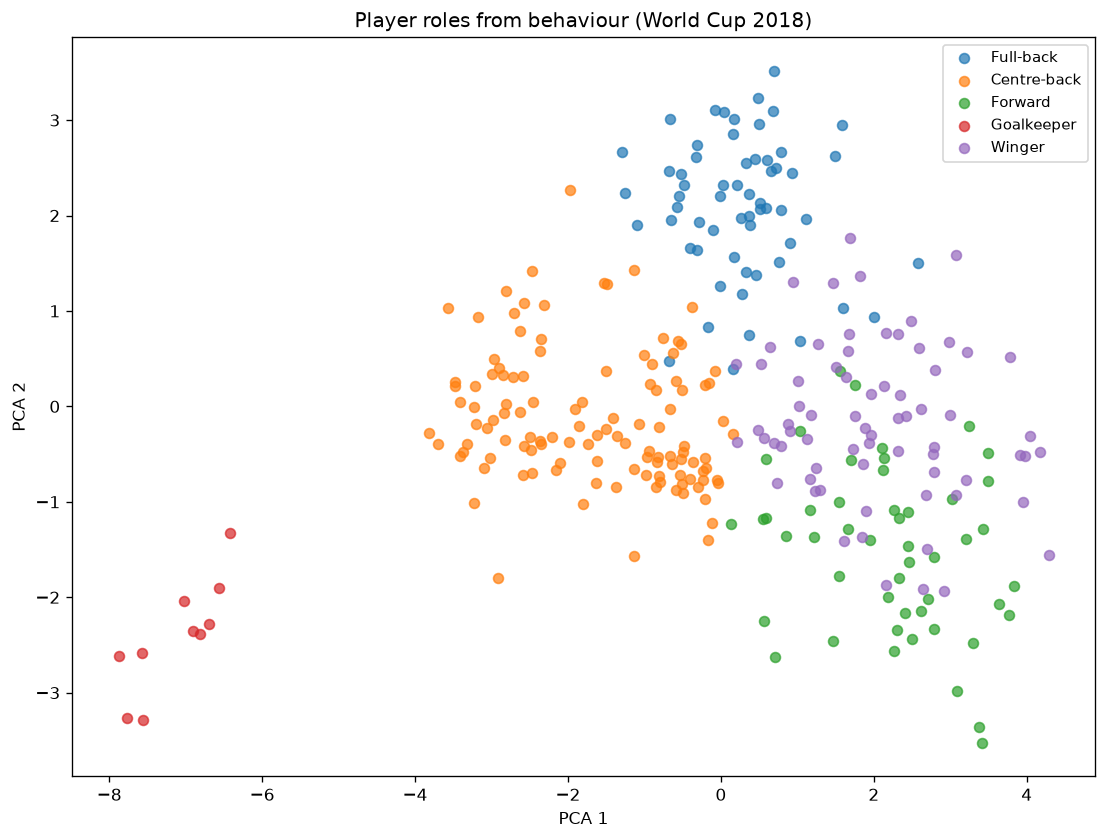
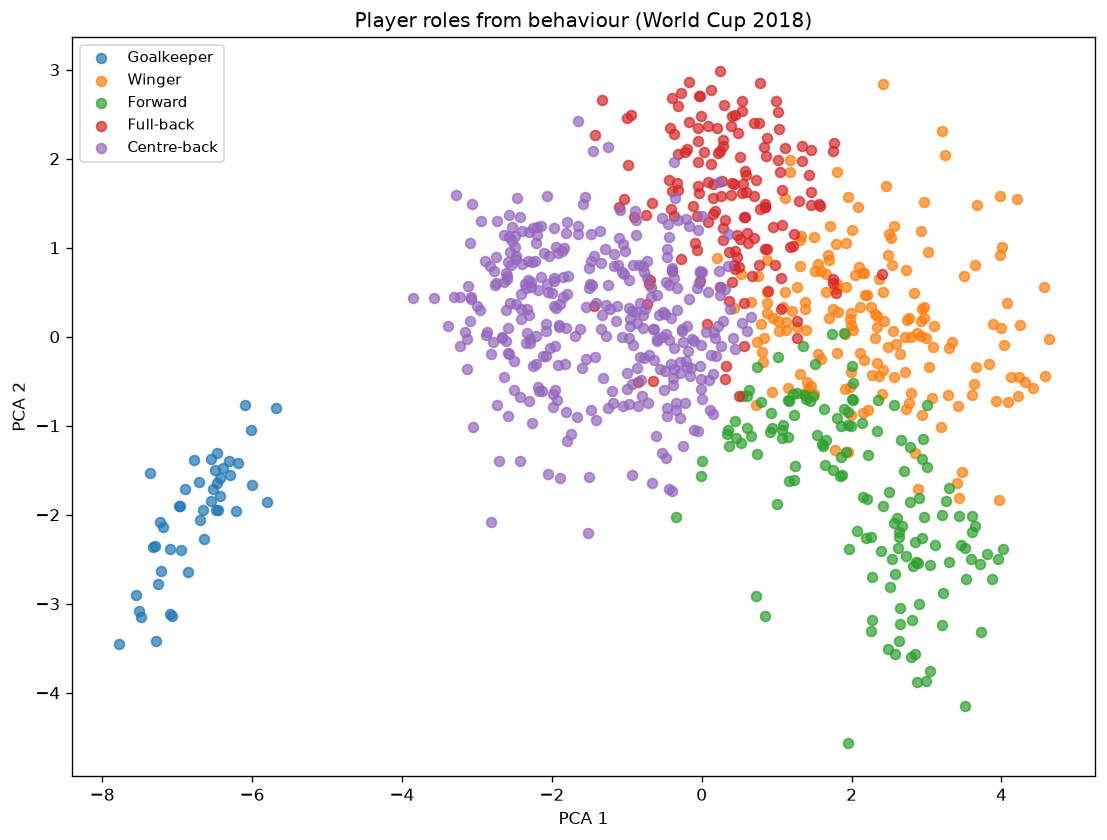
feat: expand training to four international tournaments
Train on World Cup 2018 and 2022 and Euro 2020 and 2024 (230 matches)
rather than World Cup 2018 alone. The competition set is configured once
in data.py and shared by all three models via all_match_ids; the caches
are renamed to be competition-agnostic. Because every model reads the
same raw events, build_data.py fetches each match once and writes the
shot, possession, and player caches together instead of downloading the
matches three times.

The larger sample is the payoff for xG: XGBoost, which overfit and
trailed at 0.708 AUC on World Cup 2018 alone, climbs to 0.767 and now
edges the linear model on ranking, though logistic regression still wins
log loss by a hair and stays the served model. Tactical patterns (29,675
possessions) and player roles (859 players) keep the same structure at
several times the scale, which is reassuring. README metrics, the example
figure, and the role map are regenerated accordingly.

diff --git a/src/pitchsense/build_data.py b/src/pitchsense/build_data.py
@@ -1,0 +1,65 @@
+"""Build every on-disk cache in a single pass over the match events.
+
+Each of the three models draws on the same raw StatsBomb events. Fetching those
+events once per model would download every match three times, so this module
+walks the configured competitions once, and from each match's events assembles
+the shot table, the possession table, and the player aggregates together. Run it
+before training to populate the caches; the individual loaders then find their
+cache and skip the network entirely.
+
+    python -m pitchsense.build_data
+"""
+
+import pandas as pd
+
+from pitchsense.data import (
+    DATA_DIR,
+    SHOTS_CACHE,
+    all_match_ids,
+    shots_from_events,
+)
+from pitchsense.players import (
+    combine_aggregates,
+    finalize_features,
+    player_raw_aggregates,
+)
+from pitchsense.possessions import build_possession_frame
+from pitchsense.roles import PLAYERS_CACHE
+from pitchsense.tactics import POSSESSIONS_CACHE
+
+
+def build_all_caches() -> dict:
+    """Fetch every match once and write the shots, possessions, and player caches."""
+    from statsbombpy import sb  # lazy import so the module stays importable offline
+
+    match_ids = all_match_ids()
+    shot_frames, possession_frames, player_frames = [], [], []
+
+    for i, match_id in enumerate(match_ids, start=1):
+        events = sb.events(match_id=match_id)
+        events["match_id"] = match_id
+        shot_frames.append(shots_from_events(events, match_id))
+        possession_frames.append(build_possession_frame(events))
+        player_frames.append(player_raw_aggregates(events))
+        print(f"  [{i:>3}/{len(match_ids)}] match {match_id} processed", flush=True)
+
+    shots = pd.concat(shot_frames, ignore_index=True)
+    possessions = pd.concat(possession_frames, ignore_index=True)
+    players = finalize_features(combine_aggregates(pd.concat(player_frames, ignore_index=True)))
+
+    DATA_DIR.mkdir(parents=True, exist_ok=True)
+    shots.to_parquet(SHOTS_CACHE, index=False)
+    possessions.to_parquet(POSSESSIONS_CACHE, index=False)
+    players.to_parquet(PLAYERS_CACHE, index=False)
+
+    return {"matches": len(match_ids), "shots": len(shots),
+            "possessions": len(possessions), "players": len(players)}
+
+
+if __name__ == "__main__":
+    counts = build_all_caches()
+    print(
+        f"\nBuilt caches from {counts['matches']} matches: "
+        f"{counts['shots']} shots, {counts['possessions']} possessions, "
+        f"{counts['players']} players."
+    )

diff --git a/src/pitchsense/data.py b/src/pitchsense/data.py
@@ -2,6 +2,13 @@
 
 The raw event API is slow and rate-limited, so the assembled shot frame is
 cached on disk as a parquet file. Delete the cache to force a refresh.
+
+Training spans several major men's international tournaments (see
+``COMPETITIONS``) rather than a single one: a larger, more varied shot sample
+gives a better-calibrated xG model and enough data for the gradient-boosted model
+to compete with the linear baseline. They are all national-team knockout
+tournaments with full event data and shot freeze-frames, so they are stylistically
+comparable and share the same feature coverage.
 """
 
 from pathlib import Path
@@ -9,12 +16,20 @@ from pathlib import Path
 import pandas as pd
 from statsbombpy import sb
 
-# FIFA World Cup 2018
-COMPETITION_ID = 43
-SEASON_ID = 3
+# (competition_id, season_id) for each tournament in the training set.
+COMPETITIONS = [
+    (43, 3),     # FIFA World Cup 2018
+    (43, 106),   # FIFA World Cup 2022
+    (55, 43),    # UEFA Euro 2020
+    (55, 282),   # UEFA Euro 2024
+]
+
+# A single representative competition, for callers that only need one match (the
+# example replay picks its goal from here). Defaults to the first tournament.
+COMPETITION_ID, SEASON_ID = COMPETITIONS[0]
 
 DATA_DIR = Path(__file__).resolve().parents[2] / "data"
-SHOTS_CACHE = DATA_DIR / "wc2018_shots.parquet"
+SHOTS_CACHE = DATA_DIR / "shots.parquet"
 
 # Columns we keep from the raw event frame. Missing ones are filled later.
 SHOT_COLUMNS = [
@@ -67,20 +82,37 @@ def _attach_assist_features(shots: pd.DataFrame, events: pd.DataFrame) -> pd.Dat
     return shots
 
 
+def all_match_ids() -> list:
+    """Every match id across the configured competitions."""
+    ids = []
+    for competition_id, season_id in COMPETITIONS:
+        matches = sb.matches(competition_id=competition_id, season_id=season_id)
+        ids.extend(matches["match_id"].tolist())
+    return ids
+
+
+def shots_from_events(events: pd.DataFrame, match_id) -> pd.DataFrame:
+    """Extract one match's shot rows (with assist features) as ``SHOT_COLUMNS``.
+
+    Shared by the shots loader and the single-pass cache builder so the shot
+    assembly logic lives in exactly one place.
+    """
+    shots = events[events["type"] == "Shot"].copy()
+    shots["match_id"] = match_id
+    if "shot_key_pass_id" not in shots.columns:
+        shots["shot_key_pass_id"] = pd.NA
+    shots = _attach_assist_features(shots, events)
+    for col in SHOT_COLUMNS:
+        if col not in shots.columns:
+            shots[col] = pd.NA
+    return shots[SHOT_COLUMNS]
+
+
 def _fetch_shots() -> pd.DataFrame:
-    matches = sb.matches(competition_id=COMPETITION_ID, season_id=SEASON_ID)
     frames = []
-    for match_id in matches["match_id"]:
+    for match_id in all_match_ids():
         events = sb.events(match_id=match_id)
-        shots = events[events["type"] == "Shot"].copy()
-        shots["match_id"] = match_id
-        if "shot_key_pass_id" not in shots.columns:
-            shots["shot_key_pass_id"] = pd.NA
-        shots = _attach_assist_features(shots, events)
-        for col in SHOT_COLUMNS:
-            if col not in shots.columns:
-                shots[col] = pd.NA
-        frames.append(shots[SHOT_COLUMNS])
+        frames.append(shots_from_events(events, match_id))
     return pd.concat(frames, ignore_index=True)
 
 

diff --git a/src/pitchsense/roles.py b/src/pitchsense/roles.py
@@ -34,7 +34,7 @@ from pitchsense.players import (
 K_RANGE = range(5, 9)
 
 DATA_DIR = Path(__file__).resolve().parents[2] / "data"
-PLAYERS_CACHE = DATA_DIR / "wc2018_players.parquet"
+PLAYERS_CACHE = DATA_DIR / "players.parquet"
 
 MODEL_DIR = Path(__file__).resolve().parents[2] / "models"
 MODEL_PATH = MODEL_DIR / "roles_kmeans.joblib"
@@ -73,10 +73,9 @@ def load_player_data(use_cache: bool = True) -> pd.DataFrame:
 
     from statsbombpy import sb  # lazy: keeps the module importable offline
 
-    from pitchsense.data import COMPETITION_ID, SEASON_ID
+    from pitchsense.data import all_match_ids
 
-    matches = sb.matches(competition_id=COMPETITION_ID, season_id=SEASON_ID)
-    frames = [player_raw_aggregates(sb.events(match_id=mid)) for mid in matches["match_id"]]
+    frames = [player_raw_aggregates(sb.events(match_id=mid)) for mid in all_match_ids()]
     pooled = combine_aggregates(pd.concat(frames, ignore_index=True))
     data = finalize_features(pooled)
 

diff --git a/src/pitchsense/tactics.py b/src/pitchsense/tactics.py
@@ -30,7 +30,7 @@ from pitchsense.possessions import (
 N_CLUSTERS = 3
 
 DATA_DIR = Path(__file__).resolve().parents[2] / "data"
-POSSESSIONS_CACHE = DATA_DIR / "wc2018_possessions.parquet"
+POSSESSIONS_CACHE = DATA_DIR / "possessions.parquet"
 
 MODEL_DIR = Path(__file__).resolve().parents[2] / "models"
 MODEL_PATH = MODEL_DIR / "tactics_kmeans.joblib"
@@ -52,11 +52,10 @@ def load_possession_data(use_cache: bool = True) -> pd.DataFrame:
 
     from statsbombpy import sb  # lazy: keeps the module importable offline
 
-    from pitchsense.data import COMPETITION_ID, SEASON_ID
+    from pitchsense.data import all_match_ids
 
-    matches = sb.matches(competition_id=COMPETITION_ID, season_id=SEASON_ID)
     frames = []
-    for match_id in matches["match_id"]:
+    for match_id in all_match_ids():
         events = sb.events(match_id=match_id)
         events["match_id"] = match_id
         frames.append(build_possession_frame(events))

diff --git a/README.md b/README.md
@@ -11,8 +11,15 @@ Unlike a typical xG dashboard, the whole point here is a real pipeline: **real m
 ## Data
 
 - **Source:** [StatsBomb Open Data](https://github.com/statsbomb/open-data) — free, public, real professional match events.
-- **Competition used:** FIFA World Cup 2018 (`competition_id=43`, `season_id=3`), 64 matches.
-- Data is pulled on demand via `statsbombpy` and cached locally under `data/` (git-ignored, not committed).
+- **Competitions used:** four major men's international tournaments — FIFA World
+  Cup 2018 and 2022, and UEFA Euro 2020 and 2024 — **230 matches** in total. They
+  are all national-team knockout tournaments with full event data and shot
+  freeze-frames, so they are stylistically comparable and share the same feature
+  coverage. The set is configured in one place (`COMPETITIONS` in `data.py`).
+- Data is pulled on demand via `statsbombpy` and cached locally under `data/`
+  (git-ignored, not committed). Because all three models read the same raw
+  events, `python -m pitchsense.build_data` fetches every match once and writes
+  all three caches together, rather than downloading the matches three times.
 
 ## Approach (Phase 1 — baseline xG model)
 
@@ -43,22 +50,27 @@ loss as the model it serves; it is not hardcoded.
 
 ## Results (held-out test set)
 
-Trained on World Cup 2018 (1,638 open-play shots, 8.2% goal rate, 11 features):
+Trained across four tournaments (5,606 open-play shots, 9.0% goal rate, 11
+features):
 
 | Model | ROC AUC | Log loss | Brier |
 |---|---|---|---|
-| **Logistic Regression** (served) | **0.758** | **0.242** | **0.066** |
-| XGBoost | 0.708 | 0.267 | 0.073 |
+| **Logistic Regression** (served) | 0.762 | **0.261** | **0.072** |
+| XGBoost | **0.767** | 0.263 | 0.074 |
 
-On this single-competition dataset the linear model wins on every metric. That
-is the expected outcome, not a bug: with only ~135 goals, a gradient-boosted
-tree overfits, whereas the core xG signal (distance and angle) is smooth and
-close to linear in log-odds — exactly what logistic regression models well. The
-tree should overtake it once the training set is expanded across competitions.
+This is the payoff from the larger training set. On World Cup 2018 alone (only
+~135 goals) XGBoost overfit badly and trailed the linear model on every metric,
+at 0.708 AUC. With four tournaments and ~500 goals it climbs to **0.767 AUC and
+now edges the linear model on ranking** — exactly the behaviour a gradient-boosted
+tree is expected to show once it has enough data. Logistic regression still wins
+on log loss by a hair, so it remains the served model (the pipeline picks the
+lower log loss, not a hardcoded choice); the two are now effectively neck and
+neck, where before there was a wide gap.
 
-The served model is well calibrated: for its highest-probability bucket of shots
-it predicts ~0.36 and the actual goal rate is ~0.39. For reference, StatsBomb's
-own production xG reaches ~0.78–0.80 AUC using more features (including richer
+The served model stays well calibrated: across ten probability buckets its
+predictions track the actual goal rate closely, with only mild over-prediction in
+the highest bucket (predicts ~0.35, actual ~0.27). For reference, StatsBomb's own
+production xG reaches ~0.78–0.80 AUC using more features (including richer
 freeze-frame geometry), so this baseline sits in a sensible range.
 
 Both models are saved (`models/xg_logreg.joblib`, `models/xg_xgboost.joblib`),
@@ -69,7 +81,8 @@ comparison is written to `models/xg_metrics.json` on every training run.
 
 ```
 src/pitchsense/
-  data.py       # load & cache StatsBomb shots
+  data.py       # competition config + load & cache StatsBomb shots
+  build_data.py # single-pass fetch that builds all three caches at once
   features.py   # pitch geometry + feature engineering (pure, tested)
   train.py      # train, evaluate, and save the baseline model
   pitch.py      # draw a football pitch in StatsBomb coordinates
@@ -99,8 +112,9 @@ the interactive quiz will later pause on.
 
 ![Example shot](docs/example_shot.png)
 
-The example above is a Luis Suárez goal the model rates at just 0.03 xG: a tight
-chance struck through a crowded box. Regenerate it with `python -m pitchsense.viz`.
+The example above is a Luis Suárez goal the model rates at just 0.01 xG: a tight
+chance struck through a crowded box (seven defenders between the ball and goal).
+Regenerate it with `python -m pitchsense.viz`.
 
 ### Animated replay
 
@@ -186,23 +200,24 @@ of passes, how far and how directly it moved upfield (`net_forward`,
 and whether it ended in a shot. Possessions with fewer than three on-ball
 actions are dropped as too short to carry a pattern.
 
-Trained on all 64 World Cup 2018 matches (**8,307 possessions**, k=3, silhouette
+Trained across all four tournaments (**29,675 possessions**, k=3, silhouette
 **0.26**), the three clusters map cleanly onto the archetypes the project
 targets:
 
 | Pattern | Share | Passes | Duration | Upfield | Directness | Speed | Ends in shot |
 |---|--:|--:|--:|--:|--:|--:|--:|
-| **Counter-attack / direct** | 3,573 | 3.8 | 10.9s | 54.8y | 0.52 | 6.7 y/s | 12% |
-| **Patient build-up** | 1,790 | 15.4 | 50.5s | 55.9y | 0.15 | 1.3 y/s | 22% |
-| **Quick regain / transition** | 2,944 | 5.3 | 15.5s | 10.9y | 0.07 | 0.7 y/s | 14% |
+| **Counter-attack / direct** | 12,686 | 4.0 | 11.9s | 56.4y | 0.52 | 6.4 y/s | 13% |
+| **Patient build-up** | 5,876 | 17.6 | 57.3s | 56.0y | 0.14 | 1.2 y/s | 23% |
+| **Quick regain / transition** | 11,113 | 5.8 | 17.2s | 12.0y | 0.07 | 0.7 y/s | 12% |
 
 The clusters are genuinely distinct and readable: counter-attacks are short,
-fast, and strike straight at goal; build-ups string together ~15 patient passes
-over ~50 seconds, cover the most width, and produce the most shots; the third
-group starts highest up the pitch (average start ~74 of 120 yards) and makes
-little further ground — balls won high and used quickly. The silhouette of 0.26
-is modest, as expected for real football possessions that overlap rather than
-fall into clean islands; the value is reported so the k=3 choice can be
+fast, and strike straight at goal; build-ups string together ~18 patient passes
+over ~57 seconds and produce the most shots; the third group starts highest up
+the pitch and makes little further ground — balls won high and used quickly. The
+profiles are essentially unchanged from the single-tournament version, which is
+reassuring: the same tactical structure recurs at 3.5× the scale. The silhouette
+of 0.26 is modest, as expected for real football possessions that overlap rather
+than fall into clean islands; the value is reported so the k=3 choice can be
 sanity-checked, and the cluster naming is a deterministic, unit-tested ranking of
 the centroids rather than a hand-placed guess.
 
@@ -225,33 +240,35 @@ it is kept only to label and validate the clusters.
 
 Features are standardised and clustered with k-means; the number of clusters is
 chosen by silhouette, and PCA projects the space to two dimensions for the map
-below. Trained on all 64 World Cup 2018 matches (**306 regular players**,
-k chosen as **5**, silhouette **0.284**):
+below. Trained across all four tournaments (**859 regular players**,
+k chosen as **5**, silhouette **0.289**):
 
 | Role cluster | Players | Position purity | Avg x | Width | Pass share | Def. share | Dribble |
 |---|--:|--:|--:|--:|--:|--:|--:|
-| Goalkeeper | 10 | 100% | 9.8 | 6.1 | 0.35 | 0.07 | 0.001 |
-| Centre-back | 117 | 46% | 51.9 | 16.9 | 0.32 | 0.15 | 0.003 |
-| Full-back | 60 | 87% | 61.5 | 29.9 | 0.32 | 0.17 | 0.008 |
-| Winger | 70 | 33% | 73.4 | 22.3 | 0.23 | 0.17 | 0.021 |
-| Forward | 49 | 37% | 70.7 | 19.9 | 0.20 | 0.26 | 0.010 |
+| Goalkeeper | 45 | 100% | 9.9 | 5.8 | 0.37 | 0.05 | 0.000 |
+| Centre-back | 338 | 53% | 50.7 | 17.4 | 0.31 | 0.14 | 0.003 |
+| Full-back | 155 | 88% | 60.1 | 29.1 | 0.32 | 0.17 | 0.007 |
+| Winger | 178 | 38% | 73.4 | 23.6 | 0.24 | 0.16 | 0.019 |
+| Forward | 143 | 41% | 70.4 | 19.1 | 0.21 | 0.23 | 0.011 |
 
 Each cluster is named by the most common listed position of the players inside
 it, and its **purity** — the share that actually hold that position — is reported
 rather than hidden. Goalkeepers separate perfectly (a clean island in the map)
-and full-backs are 87% pure because their width makes them behaviourally
+and full-backs are 88% pure because their width makes them behaviourally
 distinct. The interesting result is the mixing: the "Centre-back" cluster also
-absorbs 38 central and 21 defensive midfielders, because deep, narrow, pass-heavy
+absorbs 97 defensive and 49 central midfielders, because deep, narrow, pass-heavy
 midfielders *play like* defenders; the more advanced midfielders land instead in
 the winger and forward clusters. There is no clean standalone midfielder cluster
 at k=5 — a genuine finding, not a bug: midfield is a spectrum, and behaviour
-sorts those players by whether they lean defensive or attacking.
+sorts those players by whether they lean defensive or attacking. The pattern is
+unchanged from the single-tournament run at nearly 3× the players, and purity
+edges up slightly with the larger sample.
 
 ![Player role map](docs/player_roles.png)
 
 The PCA map shows the same story spatially: goalkeepers sit far off on their own,
 and the outfield roles form a continuous defence-to-attack gradient rather than
-crisp islands, which is why the silhouette (0.284) is moderate. The model, PCA
+crisp islands, which is why the silhouette (0.289) is moderate. The model, PCA
 projection, and full per-cluster position breakdown are saved to
 `models/roles_kmeans.joblib` and `models/roles_metrics.json`. Regenerate
 everything, including the map, with `python -m pitchsense.roles`.
@@ -270,7 +287,10 @@ pip install -r requirements.txt
 ## Run
 
 ```bash
-# Train and evaluate the baseline xG model (downloads & caches data on first run)
+# Fetch every match once and build all three data caches (slow, run first)
+PYTHONPATH=src python -m pitchsense.build_data
+
+# Train and evaluate the baseline xG model (uses the cache; fetches if absent)
 PYTHONPATH=src python -m pitchsense.train
 
 # Render an example shot with its freeze-frame to docs/example_shot.png
@@ -344,11 +364,14 @@ manually via `python -m pitchsense.train`.
 
 ## Known limitations
 
-- Single competition (World Cup 2018) — a larger multi-competition training set
-  would improve and stabilise the model, and is what would let XGBoost overtake
-  the linear baseline.
+- International tournaments only (World Cups and Euros). National-team knockout
+  football is somewhat distinct from week-in week-out club play, so the models
+  would shift again if trained on league data; the club competitions in StatsBomb
+  open data are also mostly single-team (heavily Barcelona), which would bias a
+  role or tactics model, so they were deliberately left out.
 - No hyperparameter search or cross-validation yet; metrics come from a single
-  train/test split with a fixed seed.
+  train/test split with a fixed seed. This is now the most likely lever for
+  pushing xG past the current ~0.76 AUC, more than adding data.
 - Freeze-frame geometry is summarised as a single defenders-in-cone count; the
   keeper's position and finer spatial detail aren't used yet.
 - The tactical clusters are unsupervised and unlabelled by nature: their names